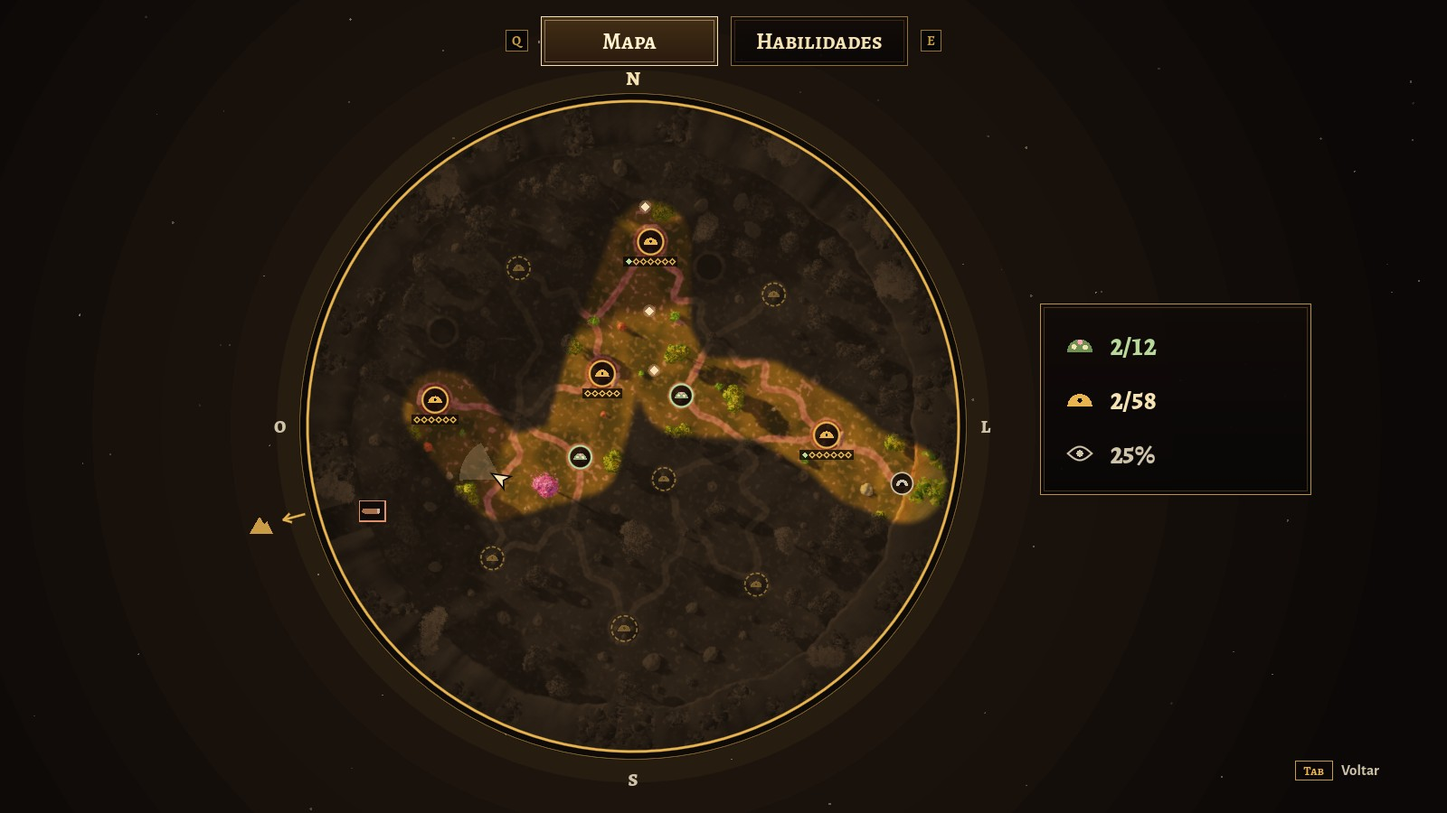
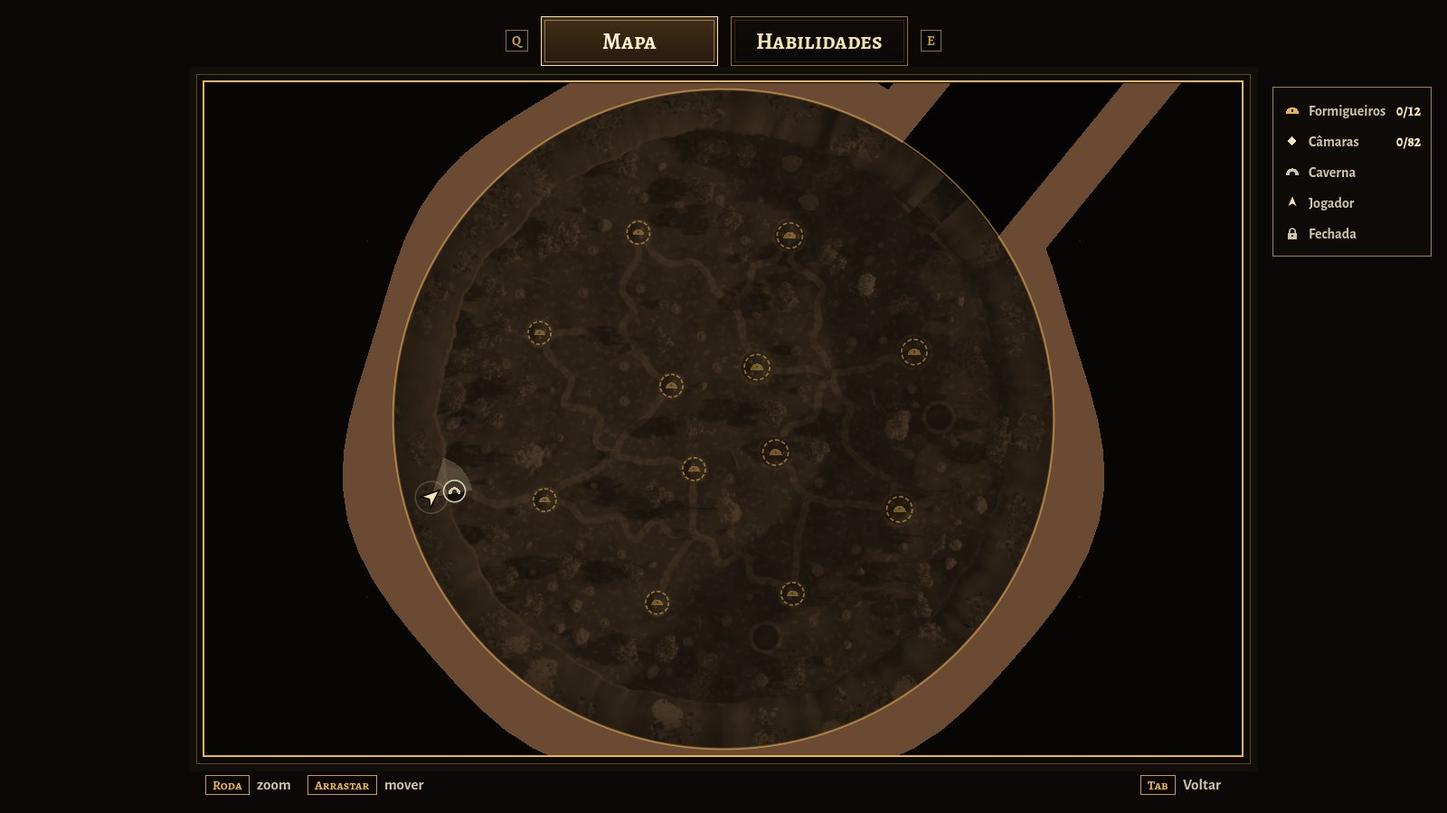
Document round 7: individual ants, the queen's pit, the new map and progression
Claude-Session: https://claude.ai/code/session_01PK3zBhGKGNdhTPcPbN78xy

diff --git a/docs/DESIGN.md b/docs/DESIGN.md
@@ -10,7 +10,7 @@ Este documento junta, em um lugar só, tudo o que já foi definido sobre o jogo:
 - as **decisões de 02/11/2026**, tomadas para resolver o que não batia;
 - as **mudanças pedidas depois do primeiro e do segundo teste** da demo (também
   de 02/11/2026) e as rodadas seguintes (interface, mensagens, mapa, 32 000
-  formigas e a vala da rainha, de 03 e 04/11/2026).
+  formigas e a rainha, de 03 a 05/11/2026).
 
 Quando algo aqui contradiz uma fonte antiga, **vale este documento**.
 
@@ -52,7 +52,7 @@ buscamos, no espírito delas:
 | **Plano de produção** | Etapas de M1 a M5, riscos e cortes sugeridos | [`docs/PLANO.md`](PLANO.md) (resumo na seção 7) | Escrito |
 | **Protótipo M1 (2D)** | Testa só a sensação de comer: 1 ninho com 6 câmaras, 259 insetos e a rainha. Gráfico simples de propósito | Pasta [`prototipos/m1-loop/`](../prototipos/m1-loop/), um projeto Godot à parte (detalhes na seção 8) | Jogável |
 | **Esboço do mapa** | As 4 áreas do jogo completo, cercadas por penhascos | Seção 3 ([`esboco-mapa.png`](esboco-mapa.png)) | Base para o formato, que pode mudar |
-| **Demo 3D** | A área 1 (uma clareira do cerrado, sempre no fim da tarde), em 1ª pessoa: começa numa caverna, cercada por penhascos, com o cupinzeiro gigante lá longe; 32 000 formigas (em grupos de 10), 12 formigueiros e 58 câmaras (12 no meio do campo), rainhas em valas, 5 habilidades (32 níveis), mapa no TAB, jogo salvo e um tronco caído que fecha a saída | Projeto principal, na raiz do repositório (detalhes na seção 8) | Jogável, já seguindo as decisões (seção 4) |
+| **Demo 3D** | A área 1 (uma clareira do cerrado, sempre no fim da tarde), em 1ª pessoa: começa numa caverna, cercada por penhascos, com o cupinzeiro gigante lá longe; 32 000 formigas (cada uma sozinha, um terço passeando pelo campo), 12 formigueiros e 82 câmaras (36 no meio do campo), rainhas no fundo dos montes grandes, 5 habilidades (32 níveis), mapa no TAB, jogo salvo e um tronco caído que fecha a saída | Projeto principal, na raiz do repositório (detalhes na seção 8) | Jogável, já seguindo as decisões (seção 4) |
 
 ---
 
@@ -100,8 +100,8 @@ buscamos, no espírito delas:
   ninhos**: 8 em volta e 4 no meio. Os formigueiros ficaram cerca de 45% maiores.
 - **Na área 1, os ninhos são só formigueiros**, de uma formiga que fica só no
   chão, com as câmaras da demo. Os cupinzeiros aparecem apenas como cenário.
-- **32 000 formigas** (eram 1000, depois 3200), em **3200 grupos de 10**: cada
-  grupo vale 1 ponto. Somando o preço de todas as habilidades do Cerrado dá
+- **32 000 formigas** (eram 1000, depois 3200), cada uma andando sozinha:
+  **10 formigas comidas = 1 ponto**. Somando o preço de todas as habilidades do Cerrado dá
   **2755 pontos**: dá para aprender tudo e ainda sobram cerca de **445 pontos**
   (4450 formigas, 2 ou 3 formigueiros) para jogar com tudo liberado.
 - **Por enquanto as habilidades ficam como estão.** A pontuação e a quantidade
@@ -151,8 +151,10 @@ buscamos, no espírito delas:
 ### Como se come: os dois jeitos juntos
 
 - **Trilhas:** formigas andam pelo mapa entre os ninhos e os arbustos, em
-  filas cheias; de vez em quando sai uma leva maior de um formigueiro, sem
-  aviso. Você lambe as que estão de passagem.
+  filas cheias, indo e voltando sem parar. Você lambe as que estão de passagem.
+- **Passeios:** mais de um terço das formigas sai das câmaras espalhadas pelo
+  campo, dá uma volta (até uns 5 m) e entra de novo. Elas contam para o
+  formigueiro dono da câmara.
 - **Ninhos com câmaras:** cada ninho tem câmaras internas. Você cava com as
   Garras e esvazia uma por uma, com a satisfação de terminar de arrumar uma
   prateleira. Ao abrir, as moradoras **saem correndo** e fogem quando você chega
@@ -161,11 +163,13 @@ buscamos, no espírito delas:
 - Depois de abrir uma câmara, **as garras descansam** (25 s no começo).
 - **Buracos maiores pedem mais Cavar:** o Cavar abre as câmaras pequenas (dos
   formigueiros pequenos e as do campo); o **Cavar Fundo** abre as câmaras
-  grandes, dos formigueiros grandes; e a **Escavação Real** abre a vala da
-  rainha.
-- **As formigas andam em grupos de 10**, e a língua pega o grupo inteiro: **10
-  formigas = 1 ponto**. A **língua** começa com **um clique por lambida** (um
-  grupo, 10 formigas). A primeira habilidade (**Lambida Contínua**, 25 pontos)
+  grandes, dos formigueiros grandes (de tampa mais escura); e a **Escavação
+  Real** desmancha o monte da rainha.
+- **Cada formiga é uma só** (não há grupos): **10 formigas comidas = 1 ponto**.
+  A **língua** começa **lenta** (1,4 lambida por segundo), com **um clique por
+  lambida**, pegando até 10 formigas. A linha de Destreza a deixa mais rápida
+  (Língua Comprida e Saliva Grudenta, +25% cada; Língua Turbo, 2x). A primeira
+  habilidade (**Lambida Contínua**, 25 pontos)
   deixa segurar o botão; a linha de **Bocado** aumenta quantas vêm de uma vez:
   50, 150, 250 e 400 formigas.
 - No começo a língua vai **reta** até onde você mira e pega a formiga que
@@ -177,9 +181,11 @@ buscamos, no espírito delas:
 
 ### Desafio extra: rainha e tanajura
 
-- **Rainha:** aparece **só nos ninhos grandes**, numa **vala comprida no pé do
-  monte**, com a corte dela em volta; só a **Escavação Real** abre a vala. Só dá
-  para comê-la depois de comer a corte. Vale **200 formigas (20 pontos)** e tem
+- **Rainha:** aparece **só nos ninhos grandes** e mora **bem no fundo**: com a
+  **Escavação Real**, cavar o topo do monte o desmancha inteiro, e fica um
+  **buraco** com a rainha andando devagar lá embaixo, junto com a corte e as
+  moradoras das outras câmaras do monte. Só dá para comê-la depois de comer a
+  corte. Vale **200 formigas (20 pontos)** e tem
   efeito e som próprios. O Faro Lendário marca as rainhas na bússola.
 - **Tanajura:** rainha voadora e rara que cruza o mapa. Comê-la deixa a língua
   mais rápida por alguns segundos.
@@ -187,7 +193,7 @@ buscamos, no espírito delas:
 
 ### Habilidades: as 5 do plano
 
-**Cada grupo de 10 formigas comido vale 1 ponto** (a rainha vale 20 pontos), e
+**Cada 10 formigas comidas valem 1 ponto** (a rainha vale 200 formigas), e
 **cada habilidade tem o seu preço**. Você escolhe onde gastar, e os gestos novos (segurar para lamber,
 lambida, cavar, escalar) também são comprados assim. Dá para redistribuir os
 pontos de graça.
@@ -213,7 +219,7 @@ dá para aprender algo, um selo no canto da tela mostra quantas (◆ 2 **Tab**).
 | **Garras** | começo | Cavar (35: abre as câmaras pequenas; depois as garras descansam 25 s) |
 | | Força | Garras Fortes (70: as moradoras ficam tontas ao abrir) · Tremor (110: pulo com pancada; recarga de 21 s) · Terremoto (170: pulo mais alto, tremor maior, puxa as tontas) |
 | | Rapidez | Garras Ágeis (50: descanso de 15 s) · Garras Incansáveis (95: descanso de 5 s e cava na metade do tempo) · Recarga do Tremor (130: Tremor em 14 s) · Recarga Relâmpago (150: Tremor em 7 s) |
-| | Fundura | Cavar Fundo (60: abre as câmaras grandes) · Escavação Real (120: abre a vala da rainha) |
+| | Fundura | Cavar Fundo (60: abre as câmaras grandes) · Escavação Real (120: desmancha o monte da rainha) |
 | **Patas** | começo | Corrida (30: +25% de velocidade; correndo não dá para lamber) |
 | | Velocidade | Patas Ligeiras (80: mais 25%) · Galope Silencioso (130: correr não assusta) |
 | | Agilidade | Lamber Correndo (60) |
@@ -231,33 +237,41 @@ floresta**, onde ela é usada.
 
 ---
 
-## 4. A demo hoje (atualizada em 04/11/2026)
+## 4. A demo hoje (atualizada em 05/11/2026)
 
 Feito, seguindo as decisões:
 
-1. **12 formigueiros**, 5 deles grandes, com **46 câmaras fechadas**, e mais
-   **12 câmaras sozinhas no meio do campo**, longe das trilhas (cada uma conta
-   para o formigueiro mais perto). Segurando **E** com a habilidade Cavar, a
-   câmara abre e as moradoras **saem correndo**; elas fogem quando você chega
-   perto e depois voltam para casa. Até 12 grupos (120 formigas) ficam à vista,
-   24 na vala da rainha; os outros saem do túnel conforme você come. Depois de
-   cavar, as garras descansam. As câmaras grandes pedem **Cavar Fundo**.
+1. **12 formigueiros**, com **46 câmaras fechadas**, e mais **36 câmaras
+   sozinhas no meio do campo**, longe das trilhas (cada uma conta para o
+   formigueiro mais perto, no máximo 4 por formigueiro). Os **7 pequenos**, sem
+   rainha, ficam do lado da caverna (o começo) e o Cavar já abre todas as
+   câmaras deles; os **5 grandes**, com a rainha, ficam do lado da saída para a
+   área 2. Segurando **E** com a habilidade Cavar, a câmara abre e as moradoras
+   **saem correndo**; elas fogem quando você chega perto e depois voltam para
+   casa. Até 40 ficam à vista (120 no buraco da rainha); as outras saem do
+   túnel conforme você come. Depois de cavar, as garras descansam. As câmaras
+   grandes, de tampa mais escura, pedem **Cavar Fundo**.
 2. **Dá para subir nos formigueiros** e olhar dentro das câmaras lá de cima.
-3. **Rainha** numa **vala comprida no pé** dos 5 formigueiros grandes (do lado
-   sem trilhas), com a corte dela; a vala só abre com a **Escavação Real**. A
-   rainha brilha de leve, fica protegida enquanto houver formigas na vala e
-   **vale 200 formigas (20 pontos)**.
-4. **As 32 000 formigas** andam em **3200 grupos de 10** (cada grupo vale 1
-   ponto): cerca de 45% andam pelas trilhas (e voltam para casa), o resto mora
-   nas câmaras. 31 000 operárias + 5 rainhas × 200. Na trilha, o grupo anda em
-   **fila de duas pistas** (vira uma estrada de formigas, metade carregando
-   folha); assustado, vira um **bando solto**; na câmara e na língua, um **bolo
-   apertado**. O processador simula os grupos e a placa de vídeo desenha as 10
-   formigas de cada um, com 4 níveis de detalhe conforme a distância.
+3. **Rainha** no fundo dos 5 formigueiros grandes: a tampa dela fica no topo do
+   monte, e só a **Escavação Real** a abre. Aí o **monte inteiro some** e fica
+   um buraco escuro com a rainha andando devagar no fundo, junto com a corte e
+   as moradoras das outras câmaras do monte. A rainha brilha de leve, fica
+   protegida enquanto houver formigas no buraco e **vale 200 formigas (20
+   pontos)**.
+4. **As 32 000 formigas andam uma a uma** (31 000 operárias + 5 rainhas × 200),
+   e cada formiga comida conta 1: cerca de 31% vão e voltam pelas trilhas, 36%
+   passeiam em volta das câmaras do campo (saem, dão uma volta de até 5 m e
+   entram de novo) e o resto mora nas câmaras. Para caber tanta formiga, a
+   placa de vídeo calcula onde está cada uma das que andam pelas trilhas e pelo
+   campo, com 4 níveis de detalhe conforme a distância; quando uma precisa de
+   atenção (fugir, ficar tonta, ir para a língua ou para a mira), o jogo passa a
+   cuidar dela, e depois ela volta para o caminho dela. Uma formiga em cada
+   16 000 usa um **chapéu de Natal**.
 5. **Soldados:** saíram. A **tanajura** continua.
 6. **As 5 habilidades, com 32 níveis**, cada um com seu preço (seção 3), numa
-   árvore com **cara de constelação** que não abre sozinha. A língua começa com
-   um clique por lambida e vai **reta** até aprender a Língua Certeira; correndo
+   árvore com **cara de constelação** que não abre sozinha. A língua começa
+   **lenta** (1,4 lambida por segundo, acelerando com a linha de Destreza), com
+   um clique por lambida, e vai **reta** até aprender a Língua Certeira; correndo
    não dá para lamber até aprender Lamber Correndo. Farejar também precisa ser
    aprendido. O **Tremor** é um pulo: a pancada vem ao cair. A **Escalada +
    Cauda** aparece com cadeado. Dá para **redistribuir os pontos**.
@@ -267,8 +281,7 @@ Feito, seguindo as decisões:
    câmaras do formigueiro), formigueiro limpo, rainha, Frenesi (com a barra do
    tempo) e habilidade aprendida, que se juntam (×2, ×3); e florzinhas no
    formigueiro quando ele fica limpo. A bússola mostra só a distância e as
-   câmaras do formigueiro à frente (sem nomes). As ondas acontecem **sem aviso**,
-   e não há relógio na tela. O Faro mostra, conforme os níveis, quantas formigas
+   câmaras do formigueiro à frente (sem nomes). Não há relógio na tela. O Faro mostra, conforme os níveis, quantas formigas
    há (num selo em cima do botão de Farejar), uma nuvem onde elas estão, as
    formigas brilhando e as câmaras fechadas; o Faro Aguçado mostra na bússola
    quanto falta em cada formigueiro e o Faro Lendário marca as rainhas. Salvar
@@ -281,14 +294,16 @@ Feito, seguindo as decisões:
    sombras, capim, suavização, efeitos de luz, balanço da câmera, **cor do
    faro** (vermelho, ciano, magenta ou branco) e **Dicas** (Todas, Poucas ou
    Nenhuma). **F11** ou **Alt+Enter** alternam a tela cheia.
-10. **Pausa de verdade:** na pausa e na árvore de habilidades, as formigas e as
-   ondas param.
+10. **Pausa de verdade:** na pausa e na árvore de habilidades, as formigas
+   param.
 11. **Penhascos** em volta da clareira, que são o fim do mapa, com muitas
-   árvores no platô, algumas no pé e pedras soltas.
+   árvores no platô, algumas no pé e pedras soltas. As paredes da passagem para
+   a área 2 têm topo e frente (de lado elas pareciam uma lâmina fina), e as
+   copas das árvores não têm mais o miolo escuro que parecia um ninho no galho.
 12. **Começo na caverna:** o tamanduá acorda numa caverna no pé do penhasco,
    olhando para o **cupinzeiro gigante** lá longe, e a barriga ronca. Uma
    **trilha de terra**, sem capim, leva da caverna até o formigueiro mais perto
-   (o Formigueiro Leste). O cupinzeiro gigante pega a mesma névoa e a mesma luz
+   (um formigueiro pequeno). O cupinzeiro gigante pega a mesma névoa e a mesma luz
    do resto do cenário.
 13. **Fim da demo:** a passagem para a área 2 fica fechada por um **tronco
    caído**. Com 100% limpo, a bússola mostra a saída; segurando **E** perto do
@@ -301,22 +316,28 @@ Feito, seguindo as decisões:
    bússola em faixa com medalhão (seção 3).
 16. **Dicas curtas embaixo da mira**, com a tecla num quadradinho e poucas
    palavras (ou só ícone e número): "E Abrir câmara", o relógio das garras,
-   o cadeado com a habilidade que falta e a aba, a coroa com quantas faltam na
-   vala. Com Dicas: Todas, os controles (andar, correr, TAB) aparecem em cima
+   o cadeado com a habilidade que falta e a aba (o Tab abre a aba de
+   habilidades já mostrando essa habilidade), a coroa com quantas faltam no
+   buraco da rainha. Com Dicas: Todas, os controles (andar, correr, TAB) aparecem em cima
    das habilidades até você usar cada um.
-17. **Mapa no TAB** (abre primeiro; Q e E trocam para a árvore): a clareira
-   vista de cima, colorida onde você já andou e escura no resto; formigueiros
-   limpos, começados (com as câmaras) e não visitados; câmaras do campo que você
-   já viu ou farejou; a caverna, o tronco, o rumo do cupinzeiro gigante e você;
-   e quantos formigueiros e câmaras faltam e quanto você já explorou. O que foi
-   explorado vai no jogo salvo.
+17. **Mapa no TAB** (abre primeiro; Q e E trocam para a árvore): o mapa
+   inteiro, centrado, com a saída para cima e para a direita. A clareira fica
+   colorida onde você já andou e escura no resto; as áreas 2, 3 e 4 aparecem
+   pretas, com cadeado. A roda do mouse aproxima (do mapa inteiro até a
+   clareira) e arrastar move. Mostra os formigueiros limpos, começados (com as
+   câmaras) e não visitados; câmaras do campo que você já viu ou farejou; a
+   caverna e você. Passar o mouse num formigueiro clareia de leve a área dele.
+   A legenda à direita é curta (Formigueiros, Câmaras, Caverna, Jogador,
+   Fechada). O que foi explorado vai no jogo salvo.
 
 Ainda a ajustar:
 
 - **Duração:** a meta é de 45 a 60 minutos, e ela vai ser medida jogando (sem
   o robô de testes). Como referência: num teste automático da segunda rodada, um
-  robô de mira perfeita terminou a colônia (então com 3200 formigas, hoje os
-  3200 grupos) em cerca de 19 minutos.
+  robô de mira perfeita terminou a colônia (então com 3200 formigas) em cerca
+  de 19 minutos.
+- **Desempenho:** as 32 000 formigas foram testadas só num servidor sem placa
+  de vídeo; falta medir num PC de verdade.
 
 ---
 
@@ -471,8 +492,9 @@ andar entre ninhos, habilidades e jogo salvo) e boa parte da M3 (o Cerrado com
 - **12 formigueiros** (5 com rainha) e **58 câmaras** para abrir e esvaziar (12
   delas no meio do campo); dá para subir nos montes. As formigas das câmaras
   saem correndo quando você abre.
-- **32 000 formigas** em grupos de 10, andando em fila pelas **trilhas** até os
-  arbustos, com levas maiores de vez em quando. Correr assusta as formigas.
+- **32 000 formigas**, cada uma sozinha, andando pelas **trilhas** até os
+  arbustos e passeando em volta das câmaras do campo. Correr assusta as
+  formigas.
 - **Língua** que estica até onde você mira; **Faro** que mostra as formigas
   através do capim; **tremor** que deixa as formigas tontas.
 - **Tanajura** voadora que dá o Frenesi.
@@ -553,3 +575,11 @@ andar entre ninhos, habilidades e jogo salvo) e boa parte da M3 (o Cerrado com
 | 04/11/2026 | Quantidade de formigas | 3200, 1 formiga = 1 ponto | 32 000, em grupos de 10; 10 formigas = 1 ponto (os preços em pontos não mudaram) |
 | 04/11/2026 | Rainha | Na câmara do topo dos formigueiros grandes, aberta pelo Cavar | Numa vala no pé do monte, com a corte; nova linha de Fundura nas Garras: Cavar Fundo (60, câmaras grandes) e Escavação Real (120, a vala) |
 | 04/11/2026 | Árvores | Um anel no platô e algumas na clareira | Muito mais árvores no platô e no pé dos penhascos; depois da passagem, rampa e mata fechada (o começo da área 2) |
+| 05/11/2026 | Mapa no TAB | Só a clareira, apontando para a esquerda e para baixo | O mapa inteiro, centrado, com a saída para cima e para a direita; áreas 2 a 4 pretas com cadeado; zoom até a clareira; legenda curta, sem porcentagem explorada |
+| 05/11/2026 | Aba de habilidades | Textos longos ("Sem ela…", resumo embaixo); explicação podia cobrir a habilidade | Textos curtos; a explicação fica acima ou abaixo (ou ao lado, se couber) e mostra o preço |
+| 05/11/2026 | Formigas | 3200 grupos de 10, nas trilhas e nas câmaras | Cada formiga anda sozinha; mais de um terço passeia pelo campo em volta de 36 câmaras (eram 12); as que passeiam contam para o formigueiro dono da câmara |
+| 05/11/2026 | Rainha | Numa vala no pé do monte | No fundo do monte: a Escavação Real desmancha o monte inteiro e fica um buraco com a rainha (que anda devagar) e as moradoras do monte |
+| 05/11/2026 | Câmaras grandes | Tampa da mesma cor das pequenas | Tampa mais escura, entre a das pequenas e a cor do monte |
+| 05/11/2026 | Formigueiros grandes | Espalhados | Do lado da saída; perto da caverna só os pequenos, que o Cavar já abre |
+| 05/11/2026 | Velocidade da língua | 3,2 lambidas por segundo desde o começo | 1,4 no começo; Língua Comprida e Saliva Grudenta +25% cada, Língua Turbo 2x |
+| 05/11/2026 | Chapéu de Natal | Nenhum | Uma formiga em cada 16 000 (0,00625%) usa um chapéu de Natal |

diff --git a/README.md b/README.md
@@ -15,7 +15,7 @@ produção, os protótipos e as decisões, num lugar só.
 
 | | |
 |---|---|
-| ![Estrada de formigas na trilha: grupos de 10, muitas carregando folhas](docs/screenshots/trilha.jpg) | ![A vala da rainha aberta no pé de um formigueiro grande, cheia de formigas](docs/screenshots/vala.jpg) |
+| ![Formigas passeando em volta de uma câmara no meio do campo, muitas carregando folhas](docs/screenshots/passeio.jpg) | ![Um formigueiro grande desmanchado: o buraco com a rainha no fundo, cheio de formigas](docs/screenshots/rainha.jpg) |
 | ![HUD com cartões de conquista, o resultado do faro e as dicas de controle](docs/screenshots/hud.jpg) | ![Mapa no TAB, colorido onde você já andou](docs/screenshots/mapa.jpg) |
 | ![Árvore de habilidades, na aba ao lado do mapa](docs/screenshots/arvore.jpg) | ![Acordando na caverna, com o cupinzeiro gigante lá longe](docs/screenshots/caverna.jpg) |
 
@@ -28,11 +28,12 @@ produção, os protótipos e as decisões, num lugar só.
 
 Uma **clareira do cerrado no fim da tarde**, cercada por penhascos. O tamanduá
 acorda numa **caverna**, vê lá longe um **cupinzeiro gigante** e a barriga
-ronca: hora de comer. A colônia tem **32 000 formigas** (em grupos de 10) e
-**12 formigueiros**. Parte das formigas anda em fila pelas trilhas de terra; o
-resto mora nas **câmaras** dos formigueiros (e em algumas câmaras no meio do
-campo), que você abre cavando. Os 5 formigueiros grandes guardam uma **rainha**
-numa vala no pé do monte. **Cada 10 formigas comidas valem 1 ponto** e cada
+ronca: hora de comer. A colônia tem **32 000 formigas**, cada uma andando
+sozinha, e **12 formigueiros**. Um terço anda em fila pelas trilhas de terra,
+mais de um terço passeia pelo campo em volta das câmaras espalhadas pelo mapa,
+e o resto mora nas **câmaras**, que você abre cavando. Perto da caverna ficam os
+formigueiros pequenos; os 5 grandes, do lado da saída, guardam uma **rainha**
+bem no fundo. **Cada 10 formigas comidas valem 1 ponto** e cada
 habilidade tem o seu preço. Com a clareira **100% limpa**, as garras quebram o
 **tronco caído** que fecha a saída, e a demo termina.
 
@@ -82,27 +83,34 @@ tela, a resolução e a qualidade gráfica.
   são curtas, embaixo da mira, com a tecla num quadradinho ("E Abrir câmara");
   salvar é só um ícone girando. Em Configurações → Jogo, **Dicas** pode ser
   Todas, Poucas ou Nenhuma.
-- **Mapa** (`Tab`): a clareira vista de cima, colorida onde você já andou, com os
-  formigueiros (limpos, começados ou não visitados), as câmaras que você já viu,
-  a caverna, o tronco e você.
-- **32 000 formigas:** cada formiga da simulação é um grupo de 10, que anda em
-  fila na trilha (uma estrada de formigas carregando folhas), se espalha quando
-  se assusta e vira um bolo na câmara e na língua.
+- **Mapa** (`Tab`): o mapa inteiro visto de cima, com a saída para cima e para
+  a direita. A clareira fica colorida onde você já andou; as áreas 2, 3 e 4
+  aparecem pretas, com cadeado. A roda do mouse aproxima e arrastar move. Mostra
+  os formigueiros (limpos, começados ou não visitados), as câmaras que você já
+  viu, a caverna e você; passe o mouse num formigueiro para ver a área dele.
+- **32 000 formigas, uma a uma:** nas trilhas elas vão e voltam do arbusto
+  (muitas carregando folhas); no campo, saem das câmaras, dão uma volta e
+  entram de novo. Cada uma foge sozinha quando você chega perto, e cada
+  formiga comida conta 1. Uma em cada 16 000 usa um chapéu de Natal.
 - **Câmaras:** os montinhos de terra clara nos formigueiros são câmaras
-  fechadas, e 12 delas ficam sozinhas no meio do campo. Com **Cavar** (Garras),
-  segure `E` perto de uma para abri-la: as moradoras **saem correndo**, fogem
-  quando você chega perto e depois voltam para casa. Até 120 ficam à vista; as
-  outras saem do túnel conforme você come. Depois de cavar, as garras descansam
-  (25 s no começo). As câmaras grandes pedem **Cavar Fundo**.
+  fechadas, e 36 delas ficam sozinhas no meio do campo (as formigas que
+  passeiam em volta contam para o formigueiro dono da câmara). Com **Cavar**
+  (Garras), segure `E` perto de uma para abri-la: as moradoras **saem
+  correndo**, fogem quando você chega perto e depois voltam para casa. Até 40
+  ficam à vista; as outras saem do túnel conforme você come. Depois de cavar,
+  as garras descansam (25 s no começo). As câmaras grandes, de tampa mais
+  escura, pedem **Cavar Fundo**.
 - **Suba nos formigueiros:** lá de cima dá para ver dentro das câmaras abertas.
-- **Rainha:** fica numa **vala no pé** dos formigueiros grandes, com a corte
-  dela; só a **Escavação Real** abre a vala. Coma a corte e ela vale **200
-  formigas** (20 pontos).
-- **Língua:** no começo ela vai reta até onde você mira e pega a formiga perto
-  da ponta. Com **Língua Certeira**, ela vai sozinha atrás da formiga mais perto
+- **Rainha:** mora no fundo dos formigueiros grandes. Com a **Escavação Real**,
+  cave o topo do monte: ele se desmancha inteiro e fica um buraco com a rainha
+  andando devagar lá embaixo, junto com as moradoras das outras câmaras dele.
+  Coma a corte e ela vale **200 formigas** (20 pontos).
+- **Língua:** no começo ela é lenta (pouco mais de uma lambida por segundo) e
+  vai reta até onde você mira, pegando até 10 formigas perto da ponta. A linha
+  de Destreza a deixa mais rápida. Com **Língua Certeira**, ela vai sozinha atrás da formiga mais perto
   da mira (marcada com um anel verde); a **Mira Ampla** aumenta essa área.
-- **Trilhas:** quem volta para o formigueiro sai de novo mais tarde; só as que
-  você come somem de vez. De vez em quando sai uma leva maior, sem aviso.
+- **Trilhas:** as formigas vão e voltam sem parar; só as que você come somem
+  de vez.
 - **Formigas fogem** quando você chega correndo: chegue andando e lamba de longe.
   Correndo também não dá para lamber, até aprender **Lamber Correndo**.
 - **Faro:** primeiro só diz quantas formigas há por perto e a que distância
@@ -136,8 +144,8 @@ tela, a resolução e a qualidade gráfica.
 
 | Habilidade | Níveis (preço em pontos) |
 |---|---|
-| **Língua** | Lambida Contínua (25: segurar para lamber), e depois três linhas: **Bocado** · Lambida (40: até 50 formigas por lambida) · Lambida Larga (75: até 150) · Lambida Gulosa (115: até 250) · Lambida Voraz (170: até 400); **Destreza** · Língua Comprida (70) · Saliva Grudenta (100) · Língua Turbo (150); **Mira** · Língua Certeira (30: a língua vai atrás da formiga mais perto da mira) · Mira Ampla (60: essa área 25% maior) |
-| **Garras** | Cavar (35: câmaras pequenas; depois as garras descansam 25 s), e depois: **Força** · Garras Fortes (70) · Tremor (110: recarga de 21 s) · Terremoto (170); **Rapidez** · Garras Ágeis (50: descanso de 15 s) · Garras Incansáveis (95: 5 s) · Recarga do Tremor (130: 14 s) · Recarga Relâmpago (150: 7 s); **Fundura** · Cavar Fundo (60: câmaras grandes) · Escavação Real (120: a vala da rainha) |
+| **Língua** | Lambida Contínua (25: segurar para lamber), e depois três linhas: **Bocado** · Lambida (40: até 50 formigas por lambida) · Lambida Larga (75: até 150) · Lambida Gulosa (115: até 250) · Lambida Voraz (170: até 400); **Destreza** · Língua Comprida (70: alcance +50% e lambe 25% mais rápido) · Saliva Grudenta (100: raio maior e mais 25% de rapidez) · Língua Turbo (150: 2x mais rápido); **Mira** · Língua Certeira (30: a língua vai atrás da formiga mais perto da mira) · Mira Ampla (60: essa área 25% maior) |
+| **Garras** | Cavar (35: câmaras pequenas; depois as garras descansam 25 s), e depois: **Força** · Garras Fortes (70) · Tremor (110: recarga de 21 s) · Terremoto (170); **Rapidez** · Garras Ágeis (50: descanso de 15 s) · Garras Incansáveis (95: 5 s) · Recarga do Tremor (130: 14 s) · Recarga Relâmpago (150: 7 s); **Fundura** · Cavar Fundo (60: câmaras grandes) · Escavação Real (120: desmancha o monte da rainha) |
 | **Patas** | Corrida (30: +25%), e depois: **Velocidade** · Patas Ligeiras (80: mais 25%) · Galope Silencioso (130); **Agilidade** · Lamber Correndo (60) |
 | **Faro** | Farejar (20), e depois: **Alcance** · Faro Atento (40: 16 m) · Faro Apurado (70: 24 m) · Faro Aguçado (110: 34 m) · Faro Lendário (160: 50 m); **Precisão** · Faro Preciso (45: nuvem) · Faro Nítido (85: formigas brilhando) · Faro de Câmara (100) |
 | **Escalada + Cauda** | Escalada (300) · Cauda Preênsil (400): ainda não feitas (aparecem com cadeado) |
@@ -196,7 +204,7 @@ scripts/
   model_library.gd       troca automática pelos modelos de IA (.glb)
   autoload/              Settings, GameState (habilidades/progresso), Sfx, DevTools
   world/                 terreno, trilhas, formigueiros, vegetação, capim, céu e sol
-  ants/                  malhas das formigas, simulação do enxame, colônia e ondas
+  ants/                  malhas das formigas, formigas de campo (calculadas na placa de vídeo), enxame e colônia
   player/                tamanduá em 1ª pessoa, focinho, patas e língua
   procedural/            construtor de malhas suaves (elipsoides, tubos, icosferas)
   ui/                    HUD, árvore de habilidades, menus e tema
